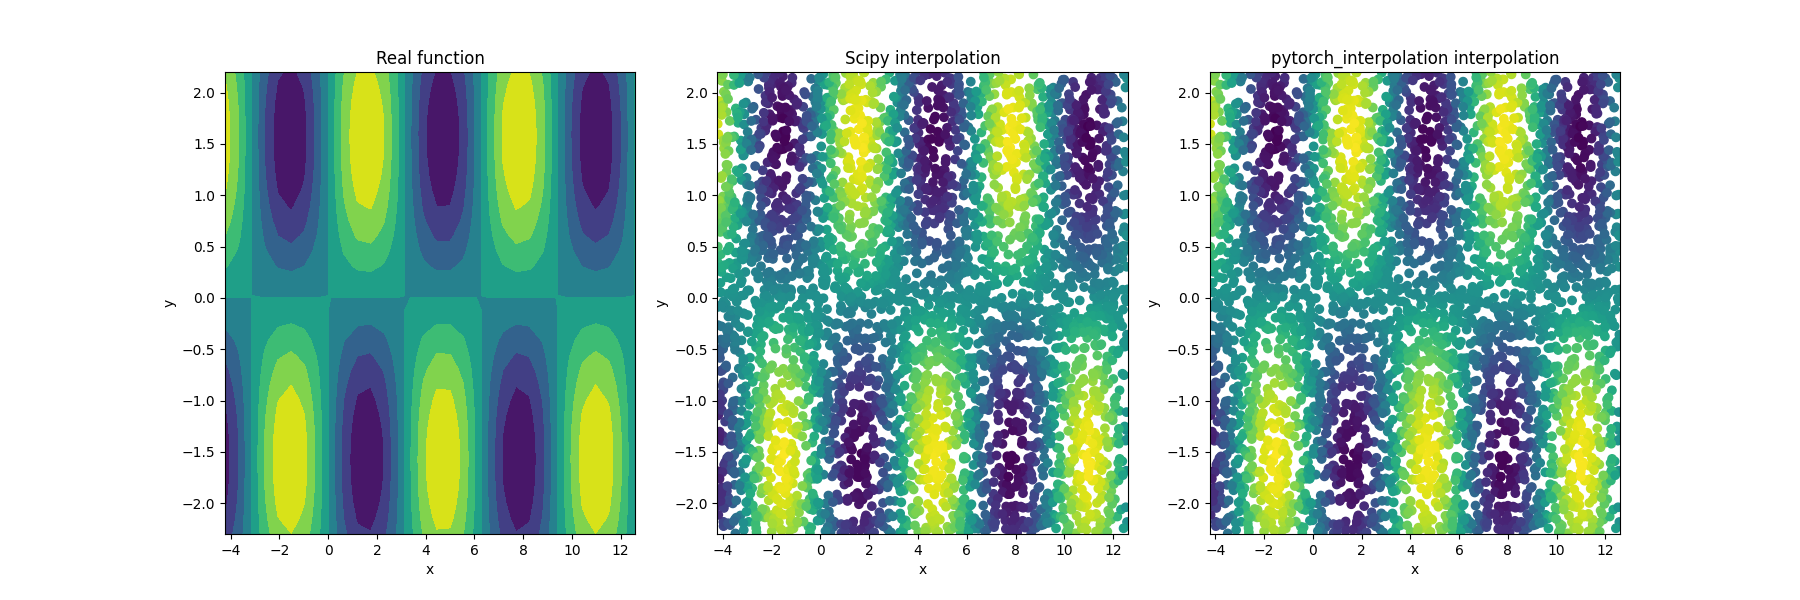
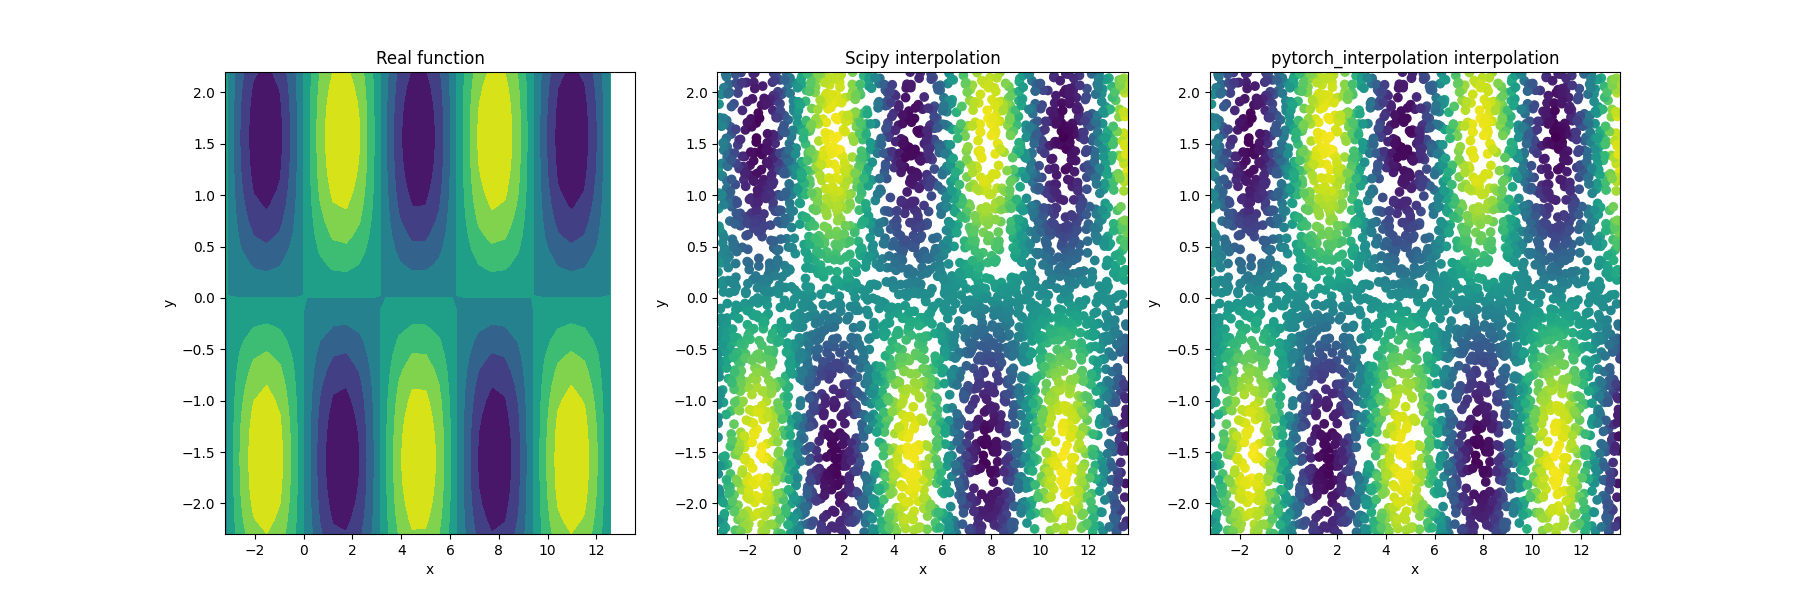
Implemented bilinear extrapolation - available by setting fill_value=None

diff --git a/pytorch_interp/csrc/interp.cpp b/pytorch_interp/csrc/interp.cpp
@@ -3,11 +3,12 @@
 #include <vector>
 
 namespace extension_interp {
-void bilinear_interpolation_kernel_CPU(float * G, float * F, 
+void bilinear_interpolation_kernel_CPU_zero_padding(float * G, float * F, 
                                         const float * xpts, const float * ypts, 
                                         const int M1, const int M2, const int N,
                                         const float dx, const float dy, 
-                                        const float * x, const float * y)
+                                        const float * x, const float * y,
+                                        const float fill_value)
 {
 
   for(int k=0; k<N; k++){
@@ -27,10 +28,51 @@ void bilinear_interpolation_kernel_CPU(float * G, float * F,
       G[k] = numerator/denominator;
     }
     else{
-      G[k] = 0.f;
+      G[k] = fill_value;
     }
   }
 }
+
+void bilinear_interpolation_kernel_CPU_linear_extrap(float * G, float * F, 
+                                        const float * xpts, const float * ypts, 
+                                        const int M1, const int M2, const int N,
+                                        const float dx, const float dy, 
+                                        const float * x, const float * y)
+{
+
+  for(int k=0; k<N; k++){
+    int ind_x  = floor((xpts[k]-x[0])/dx);
+    int ind_xp = ind_x+1;
+
+    int ind_y  = floor((ypts[k]-y[0])/dy);
+    int ind_yp = ind_y+1;
+
+    if (ind_x<0) {
+      ind_x=0;
+      ind_xp=1;
+    } 
+    if (ind_xp>=M1) {
+      ind_x=M1-2;
+      ind_xp=M1-1;
+    }
+    if (ind_y<0) {
+      ind_y=0;
+      ind_yp=1;
+    }
+    if (ind_yp>=M2) {
+      ind_y=M2-2;
+      ind_yp=M2-1;
+    }
+    const float w11 = (x[ind_xp]-xpts[k])*(y[ind_yp]-ypts[k]);
+    const float w12 = (x[ind_xp]-xpts[k])*(ypts[k]-y[ind_y]);
+    const float w21 = (xpts[k]-x[ind_x])*(y[ind_yp]-ypts[k]);
+    const float w22 = (xpts[k]-x[ind_x])*(ypts[k]-y[ind_y]);
+    const float numerator = w11*F[ind_x*M2+ind_y] + w12*F[ind_x*M2+ind_y+1] + w21*F[(ind_x+1)*M2+ind_y] + w22*F[(ind_x+1)*M2+ind_y+1];
+    const float denominator = (x[ind_xp]-x[ind_x])*(y[ind_yp]-y[ind_y]);
+    G[k] = numerator/denominator;
+  }
+}
+
 
 
 void bilinear_interp_cpu(
@@ -43,7 +85,9 @@ void bilinear_interp_cpu(
     const int64_t M1, 
     const int64_t M2,
     const double dx, 
-    const double dy
+    const double dy,
+    const int64_t fill_method,
+    const double fill_value
   ) {
 
   at::Tensor F_contig = F.contiguous();
@@ -64,11 +108,21 @@ void bilinear_interp_cpu(
   float* G_ptr = G.data_ptr<float>();
   const int N  = G.numel();
 
-  bilinear_interpolation_kernel_CPU(G_ptr, F_ptr, 
-                                    xpt_ptr, ypt_ptr, 
-                                    M1, M2, N,
-                                    dx, dy,
-                                    x_ptr, y_ptr);
+  if(fill_method==1) {
+    bilinear_interpolation_kernel_CPU_zero_padding(G_ptr, F_ptr, 
+                                      xpt_ptr, ypt_ptr, 
+                                      M1, M2, N,
+                                      dx, dy,
+                                      x_ptr, y_ptr,
+                                      fill_value);
+  }
+  else if(fill_method==2) {
+   bilinear_interpolation_kernel_CPU_linear_extrap(G_ptr, F_ptr, 
+                                      xpt_ptr, ypt_ptr, 
+                                      M1, M2, N,
+                                      dx, dy,
+                                      x_ptr, y_ptr);
+  }
 }
 
 // Registers _C as a Python extension module.
@@ -76,7 +130,7 @@ PYBIND11_MODULE(TORCH_EXTENSION_NAME, m) {}
 
 // Defines the operators
 TORCH_LIBRARY(extension_interp, m) {
-  m.def("bilinear_interp(Tensor F, Tensor G , Tensor x, Tensor y, Tensor xpt, Tensor ypt, int M1, int M2, float dx, float dy) -> ()");
+  m.def("bilinear_interp(Tensor F, Tensor G , Tensor x, Tensor y, Tensor xpt, Tensor ypt, int M1, int M2, float dx, float dy, int fill_method, float fill_value) -> ()");
 }
 
 // Registers CPU implementation

diff --git a/example.py b/example.py
@@ -5,7 +5,7 @@ import torch
 import numpy as np
 import matplotlib.pyplot as plt
 
-device="cpu"
+device="cuda"
 torch.set_num_threads(8)
 
 M1  = 2**5
@@ -26,11 +26,11 @@ X, Y = torch.meshgrid(x, y, indexing="ij")
 F=torch.sin(X)*torch.sin(Y)
 
 # scipy implementation
-interp1 = scipy_rgi((x.cpu().numpy(), y.cpu().numpy()), F.cpu().numpy(),bounds_error=False, fill_value=0.0) 
+interp1 = scipy_rgi((x.cpu().numpy(), y.cpu().numpy()), F.cpu().numpy(),bounds_error=False, fill_value=0) 
 G1 = interp1(np.array([xpt.cpu().numpy(), ypt.cpu().numpy()]).T)
 
 # implementation
-interp2 = my_rgi((x, y), F)
+interp2 = my_rgi((x, y), F, fill_value=0)
 G2 = interp2(xpt,ypt)
 
 fig, ax = plt.subplots(nrows=1, ncols=3, figsize=(18,6))
@@ -41,23 +41,23 @@ ax[0].contourf(X.cpu().numpy(),Y.cpu().numpy(),F.cpu().numpy(),cmap=plt.cm.virid
 ax[0].set_title("Real function")
 ax[0].set_xlabel("x")
 ax[0].set_ylabel("y")
-ax[0].set_xlim([x1,x2])
-ax[0].set_ylim([y1,y2])
+ax[0].set_xlim([xpt.cpu().numpy().min(),xpt.cpu().numpy().max()])
+ax[0].set_ylim([ypt.cpu().numpy().min(),ypt.cpu().numpy().max()])
 
 
 ax[1].scatter(xpt.cpu().numpy(),ypt.cpu().numpy(),c=G1,cmap=plt.cm.viridis,vmin=vmin,vmax=vmax)
 ax[1].set_title("Scipy interpolation")
 ax[1].set_xlabel("x")
 ax[1].set_ylabel("y")
-ax[1].set_xlim([x1,x2])
-ax[1].set_ylim([y1,y2])
+ax[1].set_xlim([xpt.cpu().numpy().min(),xpt.cpu().numpy().max()])
+ax[1].set_ylim([ypt.cpu().numpy().min(),ypt.cpu().numpy().max()])
 
 ax[2].scatter(xpt.cpu().numpy(),ypt.cpu().numpy(),c=G2.cpu().numpy(),cmap=plt.cm.viridis,vmin=vmin,vmax=vmax)
 ax[2].set_title("pytorch_interpolation interpolation")
 ax[2].set_xlabel("x")
 ax[2].set_ylabel("y")
-ax[2].set_xlim([x1,x2])
-ax[2].set_ylim([y1,y2])
+ax[2].set_xlim([xpt.cpu().numpy().min(),xpt.cpu().numpy().max()])
+ax[2].set_ylim([ypt.cpu().numpy().min(),ypt.cpu().numpy().max()])
 
 plt.savefig("example")
 

diff --git a/pytorch_interp/interp.py b/pytorch_interp/interp.py
@@ -4,7 +4,7 @@ import torch
 
 class RegularGridInterpolator:
 
-    def __init__(self, points, F):
+    def __init__(self, points, F, fill_value=0.0):
 
         assert isinstance(points, tuple)
         (x,y) = points
@@ -15,6 +15,18 @@ class RegularGridInterpolator:
         self.M1 = len(x)
         self.M2 = len(y)
         self.F = F
+        self.fill_value = fill_value
+        if fill_value==None:
+            self.fill_method=2
+            self.fill_value=0.0 # need to be a float in the c++ call (not actually used)
+        elif type(fill_value)==float:
+            self.fill_method=1
+        elif type(fill_value)==int:
+            self.fill_method=1
+            self.fill_value = float(fill_value)
+        else:
+            raise("Provide a floating or None fill_value")
+            
 
 
     def __call__(self, xpt, ypt):
@@ -26,5 +38,7 @@ class RegularGridInterpolator:
             xpt, ypt,
             self.M1, self.M2,
             self.dx, self.dy,
+            self.fill_method,
+            self.fill_value
         )
         return G

diff --git a/pytorch_interp/ops.py b/pytorch_interp/ops.py
@@ -8,7 +8,8 @@ def bilinear_interp(
                     x: Tensor, y: Tensor,
                     xpt: Tensor, ypt: Tensor,
                     M1: int, M2: int,
-                    dx: float, dy: float
+                    dx: float, dy: float,
+                    fill_method: int, fill_value:float
                     ) -> Tensor:
     """Bilinear interpolation"""
-    return torch.ops.extension_interp.bilinear_interp.default(F,G,x,y,xpt,ypt,M1,M2,dx,dy)
+    return torch.ops.extension_interp.bilinear_interp.default(F,G,x,y,xpt,ypt,M1,M2,dx,dy,fill_method,fill_value)

diff --git a/README.md b/README.md
@@ -7,8 +7,8 @@ pytorch_interpolation runs entirely in C++/CUDA backends, thus significantly out
 
 This repository implements a C++/CUDA extensions for PyTorch (in the style of https://github.com/pytorch/extension-cpp)
 
-At present, only bilinear 2D interpolation is implemented and zero-padding is applied to points outside the domain of the cartesian grid.
-The method assumes that the starting grid where the function to interpolate is known is a regular grid. 
+At present, only bilinear 2D interpolation is implemented and padding/linear extrapolation is applied to points outside the domain of the cartesian grid.
+The method assumes that the function is known is a on a regular grid. 
 
 # Installation intructions 
 
@@ -46,7 +46,7 @@ from pytorch_interp import RegularGridInterpolator
 interp = RegularGridInterpolator(F,x,y,xpt,ypt)
 G = interp(xpt,ypt)
 ```
-
+Optionally, the constant fill value padding can modified as `fill_value=value`. Also, bilinear extrapolation is now possible by setting `fill_value=None` (just like in Scipy). 
 
 
 # Performance
